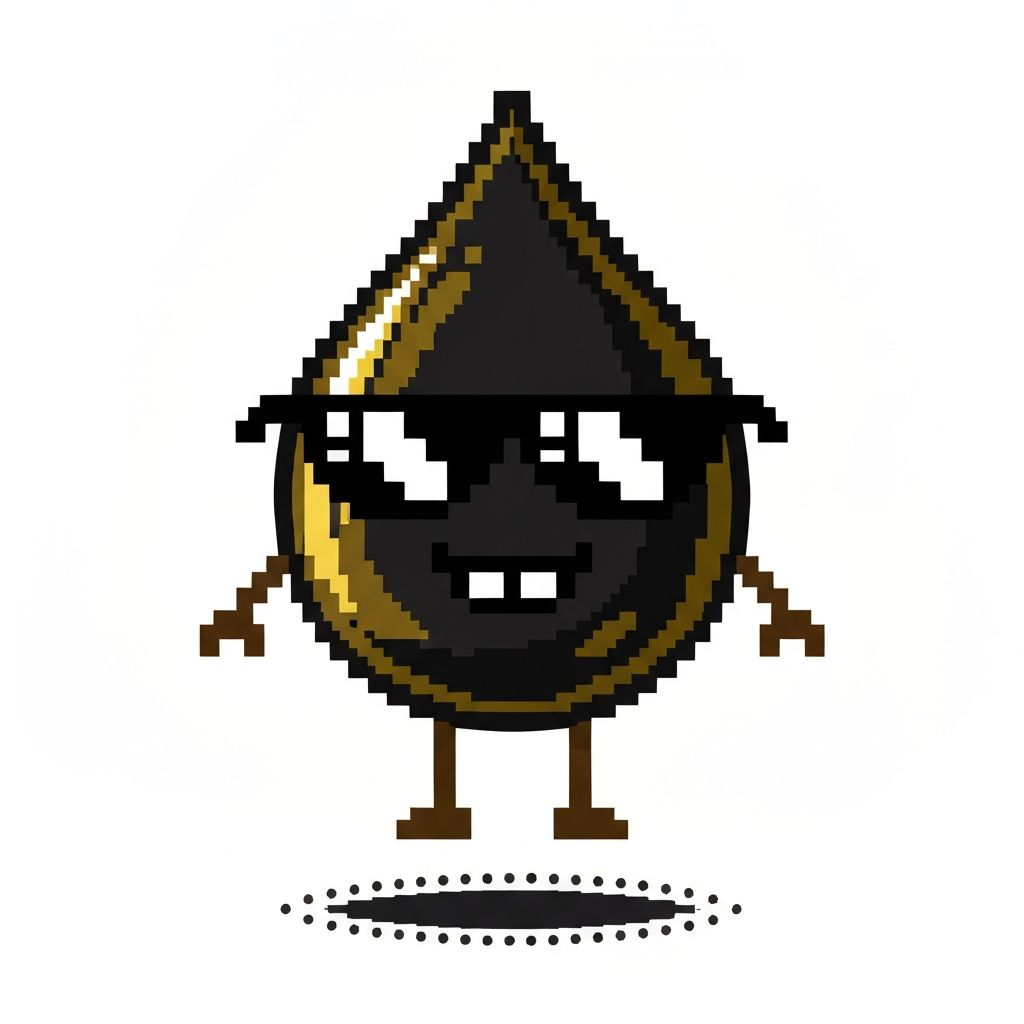
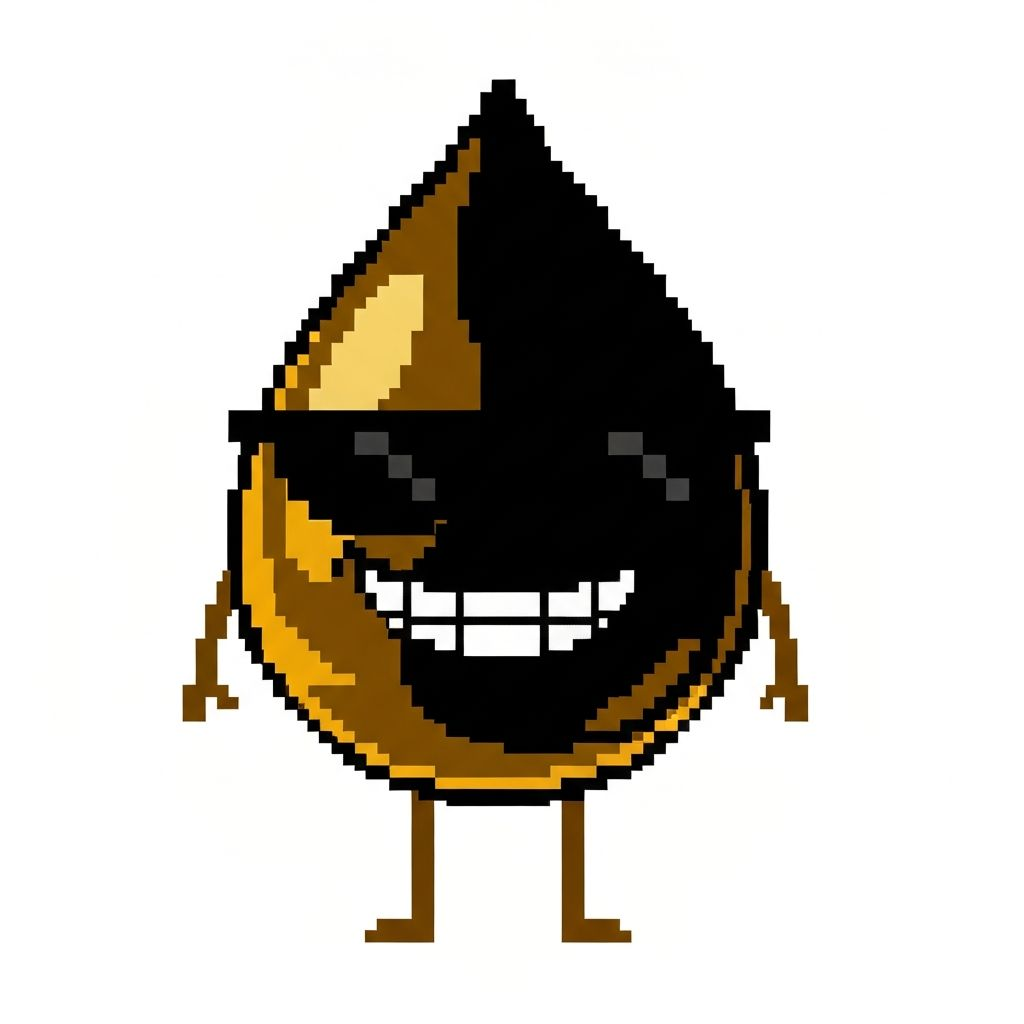
feat: add hunger bar and pixel art pet images\n\nUpdate hook and pet screen with hunger bar and regenerate pixel art images.

Changed region(s): [[0.1562, 0.0625, 0.8125, 0.9375]]

diff --git a/components/pet-screen.tsx b/components/pet-screen.tsx
@@ -46,7 +46,8 @@ export function PetScreen({
 }: PetScreenProps) {
   const [showConfirm, setShowConfirm] = useState(false)
   const config = TYPE_CONFIG[regenmon.type]
-  const isSad = regenmon.happiness === 0
+  const isHungry = (regenmon.hunger ?? 100) <= 20
+  const isSad = regenmon.happiness === 0 || (regenmon.hunger ?? 100) === 0
   const xpPercent = regenmon.xp
   const happinessPercent = regenmon.happiness
 
@@ -122,6 +123,11 @@ export function PetScreen({
                 {"Tu Regenmon esta triste..."}
               </p>
             )}
+            {isHungry && !isSad && (
+              <p className="font-sans text-[10px] animate-pulse" style={{ color: "hsl(35 80% 55%)" }}>
+                {"Tu Regenmon tiene hambre!"}
+              </p>
+            )}
 
             <p className="font-sans text-[8px] sm:text-[10px]" style={{ color: "hsl(60 10% 60%)" }}>
               {"Creado: "}{new Date(regenmon.createdAt).toLocaleDateString("es-ES")}
@@ -147,6 +153,25 @@ export function PetScreen({
               value={happinessPercent}
               max={100}
               aria-label={`Felicidad: ${happinessPercent} de 100`}
+            />
+          </div>
+
+          {/* Hunger Bar */}
+          <div className="nes-container is-dark" style={{ padding: "12px 16px" }}>
+            <div className="flex items-center justify-between mb-2">
+              <span className="font-sans text-[8px] sm:text-[10px] flex items-center gap-1" style={{ color: "hsl(60 20% 90%)" }}>
+                <span>{"🍖"}</span>
+                <span>{"Hambre"}</span>
+              </span>
+              <span className="font-sans text-[8px] sm:text-[10px]" style={{ color: "hsl(0 70% 55%)" }}>
+                {regenmon.hunger ?? 100}{"/100"}
+              </span>
+            </div>
+            <progress
+              className="nes-progress is-error"
+              value={regenmon.hunger ?? 100}
+              max={100}
+              aria-label={`Hambre: ${regenmon.hunger ?? 100} de 100`}
             />
           </div>
 

diff --git a/hooks/use-regenmon.ts b/hooks/use-regenmon.ts
@@ -8,6 +8,7 @@ export interface RegenmonData {
   name: string
   type: RegenmonType
   happiness: number
+  hunger: number
   xp: number
   level: number
   createdAt: string
@@ -45,13 +46,17 @@ export function useRegenmon() {
     }
   }, [regenmon, loaded])
 
-  // Happiness decay
+  // Happiness and hunger decay
   useEffect(() => {
     if (!regenmon) return
     const interval = setInterval(() => {
       setRegenmon((prev) => {
         if (!prev) return prev
-        return { ...prev, happiness: Math.max(0, prev.happiness - 1) }
+        return {
+          ...prev,
+          happiness: Math.max(0, prev.happiness - 1),
+          hunger: Math.max(0, prev.hunger - 2),
+        }
       })
     }, HAPPINESS_DECAY_INTERVAL)
     return () => clearInterval(interval)
@@ -62,6 +67,7 @@ export function useRegenmon() {
       name,
       type,
       happiness: 100,
+      hunger: 100,
       xp: 0,
       level: 1,
       createdAt: new Date().toISOString(),
@@ -104,7 +110,8 @@ export function useRegenmon() {
       if (!prev) return prev
       const updated = {
         ...prev,
-        happiness: Math.min(100, prev.happiness + 20),
+        hunger: Math.min(100, prev.hunger + 25),
+        happiness: Math.min(100, prev.happiness + 5),
         xp: prev.xp + 5,
       }
       return checkLevelUp(updated)
